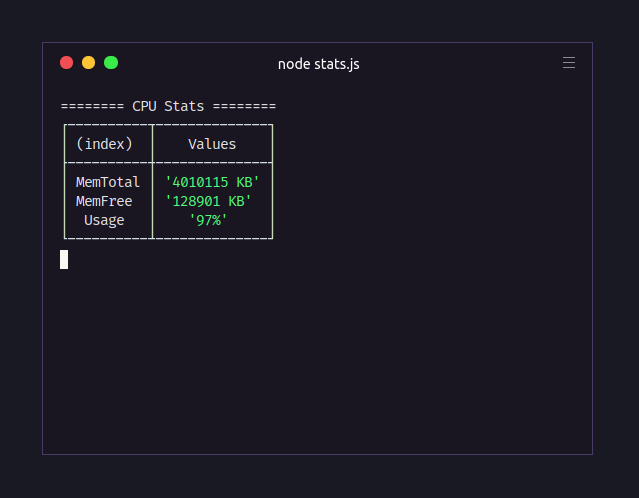
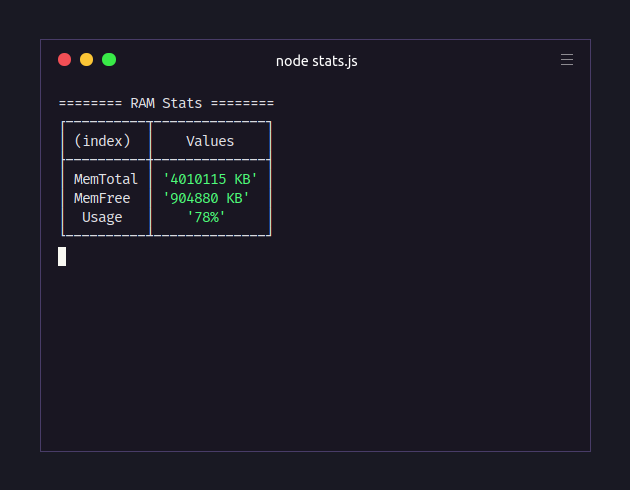
fix: Fixes in stats

Changed region(s): [[0.0603, 0.0612, 0.9349, 0.9184]]

diff --git a/stats.js b/stats.js
@@ -45,7 +45,7 @@ setInterval(() => {
   }
 
   console.clear();
-  console.log('======== CPU Stats ========');
+  console.log('======== RAM Stats ========');
   console.table(stats);
 
   log(`${JSON.stringify(stats)}\n`);
